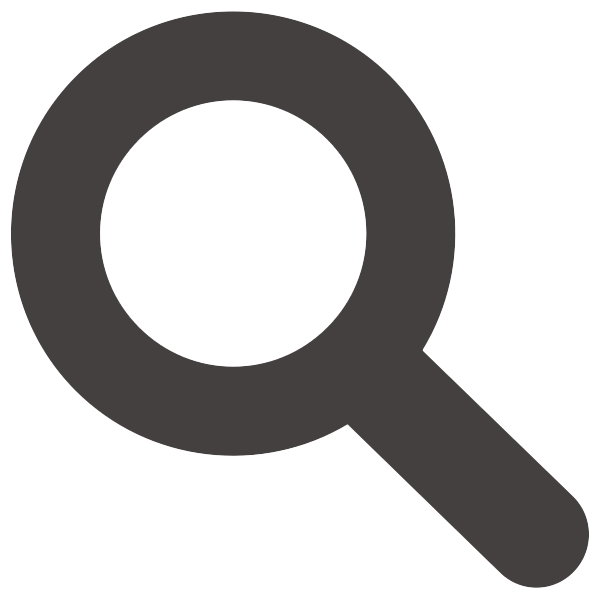
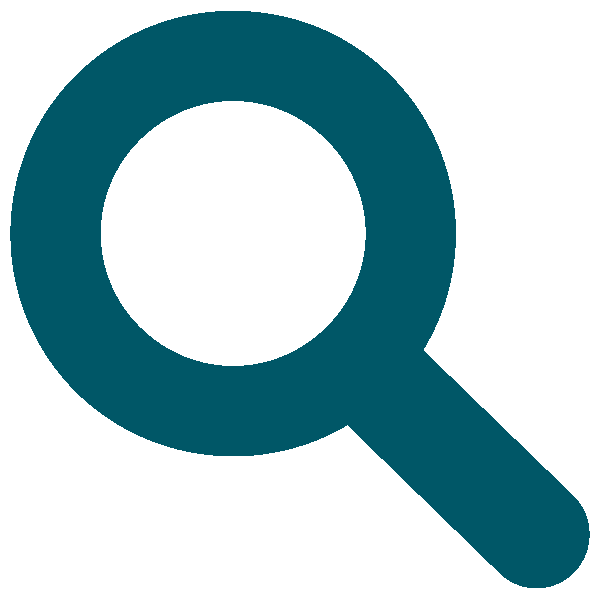
upravy headeru

diff --git a/index.html b/index.html
@@ -15,7 +15,7 @@
 <body>
     <section id="header">
         <div class="container">
-            <div class="row">
+            <div class="row header-div">
                 <div class="col-xs-12 col-sm-12 col-md-12 col-lg-6">
                     <a href="index.html"><img class="img-responsive header-img" src="public/img/logo-text.png" alt="Logo"></a>
                 </div>
@@ -27,7 +27,7 @@
 
                     <div class="dropdown show language-switch">
                         <a class="btn btn-secondary dropdown-toggle language-text" href="#" role="button" id="dropdownMenuLink" data-toggle="dropdown" aria-haspopup="true" aria-expanded="false">
-                            <img src="public/img/us-flag.png" alt="US Flag" height="20px">En<img src="public/img/arrow.png" alt="Arrow" height="20px">
+                            <img src="public/img/us-flag.png" alt="US Flag" height="20px"> En <img src="public/img/arrow.png" alt="Arrow" height="20px">
                         </a>
 
                         <div class="dropdown-menu" aria-labelledby="dropdownMenuLink">
@@ -43,21 +43,21 @@
     </section>
 
     <section id="navi">
-        <div class="container">
+        <div class="container menucko">
             <div class="row">
                 <nav class="navbar navbar-default menucko-div">
                     <div class="container-fluid">
-                        <div class="col-xs-12 col-sm-6 col-md-3 col-lg-3 nav-list-item">
-                            <a href="#">Home</a>
+                        <div class="col-xs-12 col-sm-6 col-md-3 col-lg-3 nav-list-item isActive" onclick="window.location='index.html';">
+                            Home
                         </div>
-                        <div class="col-xs-12 col-sm-6 col-md-3 col-lg-3 nav-list-item">
-                            <a href="#">Attraction</a>
+                        <div class="col-xs-12 col-sm-6 col-md-3 col-lg-3 nav-list-item" onclick="window.location='attractions.html';">
+                            Attractions
                         </div>
-                        <div class="col-xs-12 col-sm-6 col-md-3 col-lg-3 nav-list-item">
-                            <a href="#">Tickets</a>
+                        <div class="col-xs-12 col-sm-6 col-md-3 col-lg-3 nav-list-item" onclick="window.location='tickets.html';">
+                            Tickets
                         </div>
-                        <div class="col-xs-12 col-sm-6 col-md-3 col-lg-3 nav-list-item">
-                            <a href="#">Map</a>
+                        <div class="col-xs-12 col-sm-6 col-md-3 col-lg-3 nav-list-item" onclick="window.location='map.html';">
+                            Map
                         </div>
                     </div>
                 </nav>

diff --git a/css/style.css b/css/style.css
@@ -55,6 +55,7 @@
 .menucko-div {
     border-bottom-left-radius: 15px;
     border-bottom-right-radius: 15px;
+    background-color: #007186;
 }
 
 .quick-buy-btn {
@@ -73,6 +74,7 @@
 .quick-buy-div {
     border-radius: 15px;
     border-color: black;
+    background-color: #73E9FF;
 }
 
 .quick-buy-btn {
@@ -89,14 +91,6 @@
     padding: 15px 0px 15px 0px;
     float: right;
     background-color: lightgray;
-}
-
-
-/* navigation setting */
-
-.navbar {
-    padding: 15px 0px 0px 0px;
-    margin-bottom: 0px;
 }
 
 
@@ -174,6 +168,34 @@
     margin: 0 auto;
 }
 
+.nav-list-item {
+    cursor: pointer;
+    color: white;
+    font-size: 225%;
+    padding-bottom: 10px;
+    text-align: center;
+}
+
+.nav-list-item:hover {
+    color: #005767;
+    background-color: white;
+    border-radius: 15px;
+}
+
+.nav-list-item.isActive {
+    color: #005767;
+    background-color: white;
+    border-radius: 15px;
+}
+
+.navbar {
+    margin: 0;
+}
+
+.header-div {
+    padding: 15px;
+}
+
 
 /* media queries */
 
@@ -214,20 +236,36 @@ img {
 }
 
 .language-switch {
-    background-color: rgb(100, 100, 100);
+    background-color: white;
     border-radius: 5px;
     width: 60%;
-    color: white;
+    color: #005767;
 }
 
 .search-input {
-    width: 50%
+    width: 50%;
+    border-radius: 15px;
+    padding-left: 5px;
+    color: #005767;
+    font-family: 'Franklin Gothic Medium', 'Arial Narrow', Arial, sans-serif;
 }
 
 .language-text {
-    color: white;
+    color: #005767;
 }
 
 a:active {
-    color: white;
+    color: #005767;
+}
+
+.btn {
+    color: #005767;
+    background-color: white;
+}
+
+.btn.focus,
+.btn:focus,
+.btn:hover {
+    color: #005767;
+    background-color: white;
 }
